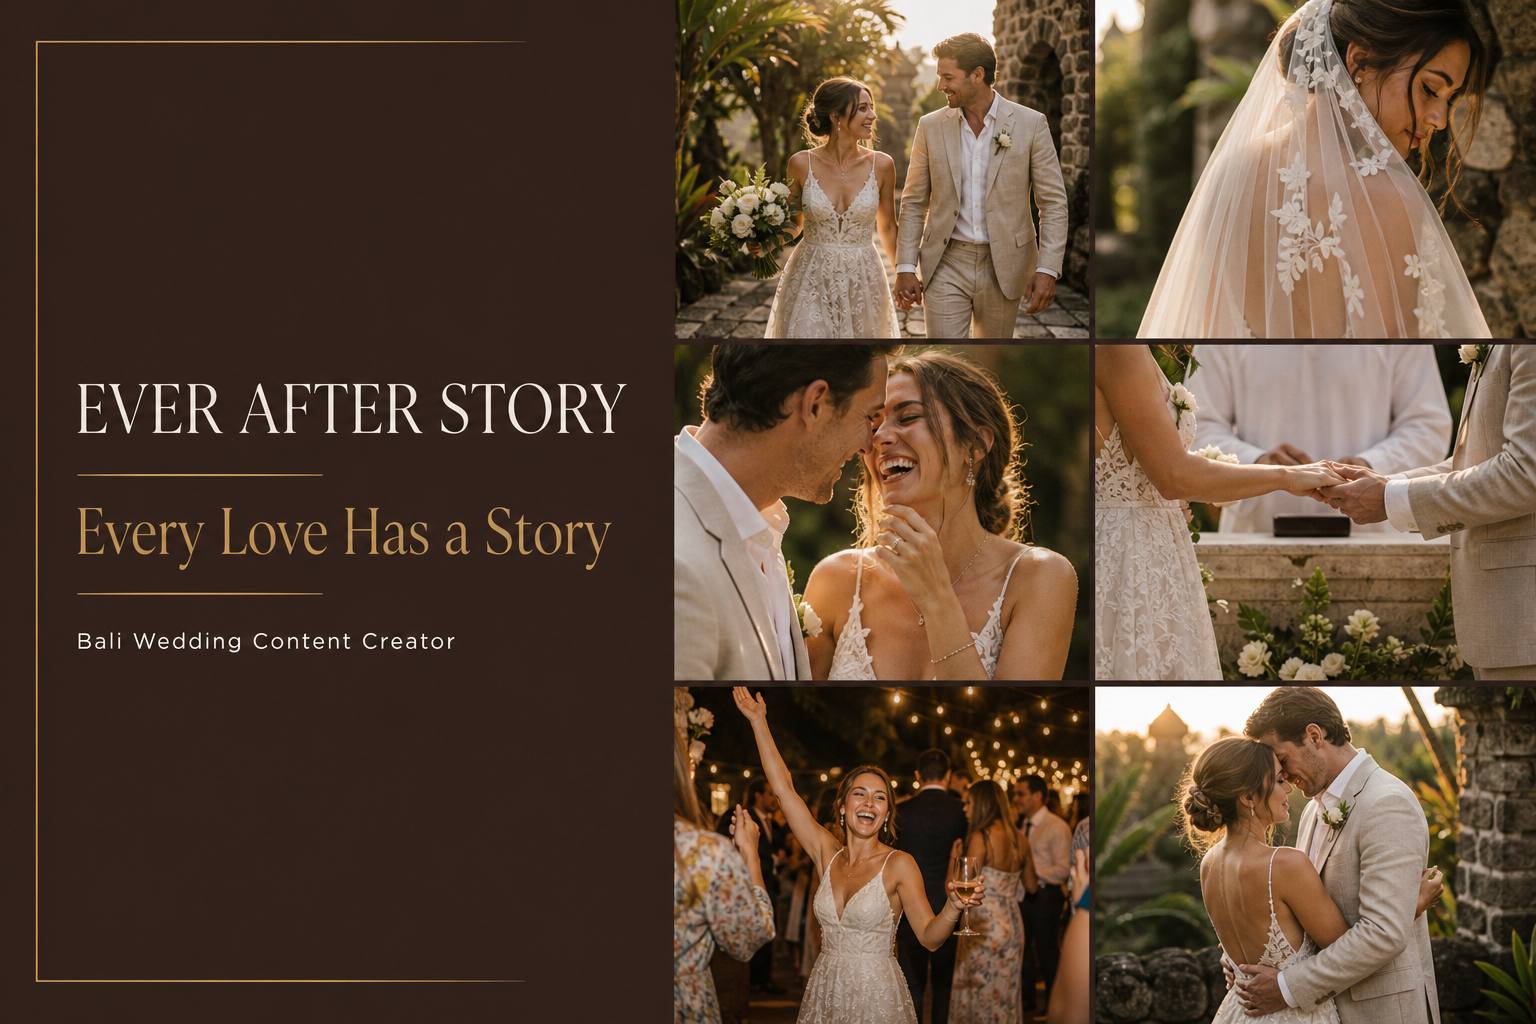
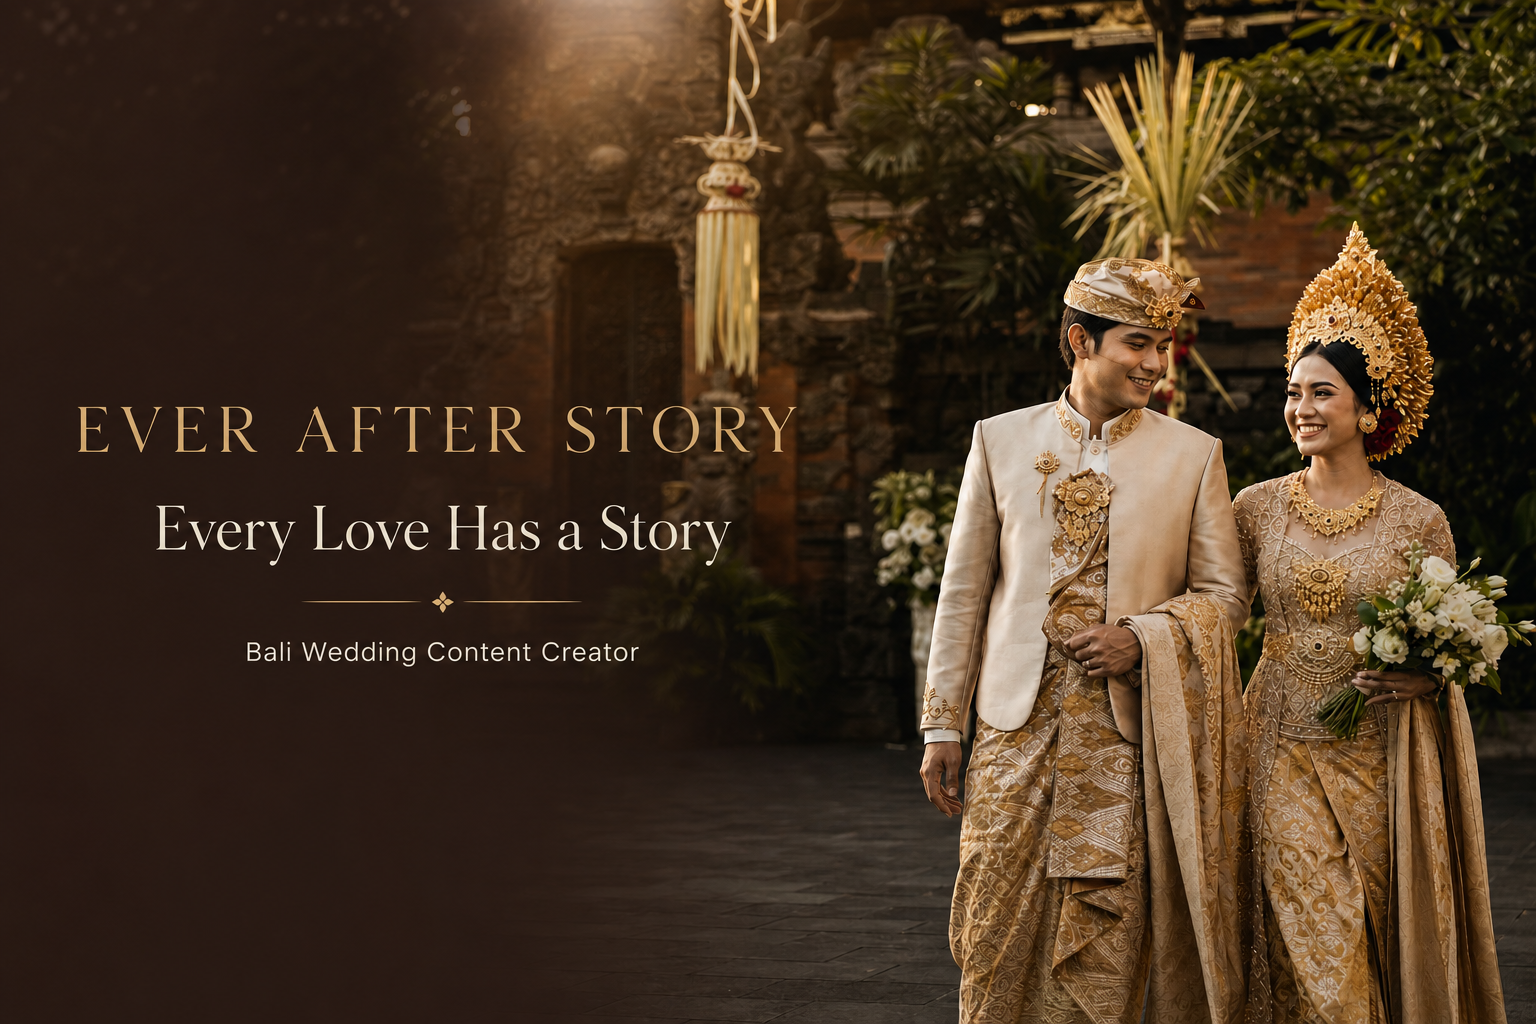
Use Bali wedding imagery from company profile

diff --git a/app/globals.css b/app/globals.css
@@ -72,8 +72,8 @@ img { max-width: 100%; }
 /* Hero */
 .hero { position: relative; min-height: max(44rem, 100svh); display: flex; align-items: flex-end; overflow: hidden; background: var(--color-primary-hover); color: white; }
 .hero-media { position: absolute; inset: 0; overflow: hidden; }
-.hero-image { object-fit: cover; object-position: 78% center; transform: scale(1.55); transform-origin: 100% 50%; }
-.hero-media::after { content: ""; position: absolute; inset: 0; background: linear-gradient(90deg, rgba(31,18,15,1) 0%, rgba(31,18,15,.97) 36%, rgba(31,18,15,.3) 72%, rgba(31,18,15,.4) 100%); }
+.hero-image { object-fit: cover; object-position: 72% center; transform: scale(1.015); transform-origin: 50% 50%; }
+.hero-media::after { content: ""; position: absolute; inset: 0; background: linear-gradient(90deg, rgba(31,18,15,.94) 0%, rgba(31,18,15,.76) 38%, rgba(31,18,15,.24) 72%, rgba(31,18,15,.34) 100%); }
 .hero-content { position: relative; z-index: 1; padding-top: 9rem; padding-bottom: clamp(4rem, 8vw, 7rem); }
 .hero-copy { max-width: 48rem; }
 .hero .eyebrow { color: #eadbd4; }
@@ -96,13 +96,7 @@ img { max-width: 100%; }
 .portfolio-item { grid-column: span 4; }
 .portfolio-item:nth-child(2), .portfolio-item:nth-child(5) { margin-top: clamp(2rem, 6vw, 5rem); }
 .portfolio-media { position: relative; aspect-ratio: 4 / 5; overflow: hidden; background: var(--color-background-alt); }
-.portfolio-image { width: auto !important; max-width: none; height: 300% !important; object-fit: fill; transition: filter .35s ease; }
-.portfolio-item:nth-child(1) .portfolio-image { top: 0 !important; left: -276% !important; }
-.portfolio-item:nth-child(2) .portfolio-image { top: 0 !important; left: -433% !important; }
-.portfolio-item:nth-child(3) .portfolio-image { top: -100% !important; left: -276% !important; }
-.portfolio-item:nth-child(4) .portfolio-image { top: -100% !important; left: -433% !important; }
-.portfolio-item:nth-child(5) .portfolio-image { top: -200% !important; left: -276% !important; }
-.portfolio-item:nth-child(6) .portfolio-image { top: -200% !important; left: -433% !important; }
+.portfolio-image { object-fit: cover; transition: transform .5s ease; }
 .portfolio-item:hover .portfolio-image { transform: scale(1.03); }
 .portfolio-meta { padding-top: 1rem; display: grid; grid-template-columns: 1fr auto; gap: .5rem 1rem; align-items: baseline; }
 .portfolio-title { margin: 0; font-family: var(--font-display), Georgia, serif; font-size: 1.7rem; font-weight: 600; line-height: 1; }
@@ -216,7 +210,7 @@ img { max-width: 100%; }
   .display { font-size: clamp(3.2rem, 17vw, 5rem); }
   .section-title { font-size: clamp(2.75rem, 13vw, 4rem); }
   .hero { min-height: 43rem; }
-  .hero-image { object-position: 76% center; transform: scale(1.75); }
+  .hero-image { object-position: 68% center; transform: scale(1.04); }
   .hero-media::after { background: linear-gradient(90deg, rgba(31,18,15,.92) 0%, rgba(31,18,15,.7) 65%, rgba(31,18,15,.42) 100%); }
   .hero-note { display: none; }
   .hero-actions { display: grid; width: min(100%, 23rem); }

diff --git a/content/portfolio.ts b/content/portfolio.ts
@@ -3,13 +3,15 @@ export interface PortfolioStory {
   location: string;
   category: string;
   alt: string;
+  image: string;
+  objectPosition: string;
 }
 
 export const portfolioStories: PortfolioStory[] = [
-  { couple: "Maya & Julian", location: "Uluwatu, Bali", category: "Clifftop Wedding", alt: "Newlyweds sharing a quiet moment at their Bali celebration" },
-  { couple: "Sofia & Liam", location: "Canggu, Bali", category: "Villa Wedding", alt: "Romantic villa wedding moment in Bali" },
-  { couple: "Ayu & Theo", location: "Sanur, Bali", category: "Intimate Wedding", alt: "Intimate wedding celebration surrounded by tropical greenery" },
-  { couple: "Elena & Marco", location: "Ubud, Bali", category: "Garden Wedding", alt: "Couple celebrating in a lush Bali garden" },
-  { couple: "Amelia & Noah", location: "Nusa Dua, Bali", category: "Destination Wedding", alt: "Destination wedding couple enjoying Bali golden hour" },
-  { couple: "Claire & Ben", location: "Seminyak, Bali", category: "Behind the Scenes", alt: "Candid behind-the-scenes wedding moment" },
+  { couple: "Maya & Julian", location: "Uluwatu, Bali", category: "Clifftop Wedding", alt: "Balinese wedding couple walking together in a temple courtyard", image: "/images/bali-wedding-couple-wide.jpg", objectPosition: "75% center" },
+  { couple: "Sofia & Liam", location: "Canggu, Bali", category: "Villa Wedding", alt: "Bride in traditional Balinese wedding attire adjusting her earring", image: "/images/bali-wedding-bride-portrait.jpg", objectPosition: "50% 38%" },
+  { couple: "Ayu & Theo", location: "Sanur, Bali", category: "Intimate Wedding", alt: "Balinese wedding couple sharing a warm look at golden hour", image: "/images/bali-wedding-couple-portrait.jpg", objectPosition: "56% 42%" },
+  { couple: "Elena & Marco", location: "Ubud, Bali", category: "Garden Wedding", alt: "Traditional Balinese bride portrait framed by carved temple details", image: "/images/bali-wedding-bride-portrait.jpg", objectPosition: "50% 55%" },
+  { couple: "Amelia & Noah", location: "Nusa Dua, Bali", category: "Destination Wedding", alt: "Newlyweds in Balinese attire standing in a tropical courtyard", image: "/images/bali-wedding-couple-wide.jpg", objectPosition: "82% center" },
+  { couple: "Claire & Ben", location: "Seminyak, Bali", category: "Behind the Scenes", alt: "Candid close portrait of a Balinese wedding couple", image: "/images/bali-wedding-couple-portrait.jpg", objectPosition: "62% 58%" },
 ];

diff --git a/components/PortfolioSection.tsx b/components/PortfolioSection.tsx
@@ -13,7 +13,7 @@ export function PortfolioSection() {
         <div className="portfolio-grid">
           {portfolioStories.map((story) => (
             <article className="portfolio-item" key={story.couple}>
-              <div className="portfolio-media"><Image className="portfolio-image" src="/images/wedding-storyboard.png" alt={story.alt} fill unoptimized sizes="(max-width: 680px) 100vw, (max-width: 960px) 50vw, 33vw" /></div>
+              <div className="portfolio-media"><Image className="portfolio-image" src={story.image} alt={story.alt} fill unoptimized sizes="(max-width: 680px) 100vw, (max-width: 960px) 50vw, 33vw" style={{ objectPosition: story.objectPosition }} /></div>
               <div className="portfolio-meta"><h3 className="portfolio-title">{story.couple}</h3><p className="portfolio-location">{story.location}</p><p className="portfolio-category">{story.category}</p></div>
             </article>
           ))}

diff --git a/components/HeroSection.tsx b/components/HeroSection.tsx
@@ -4,7 +4,7 @@ export function HeroSection() {
   return (
     <section className="hero" id="home" aria-labelledby="hero-title">
       <div className="hero-media" aria-hidden="true">
-        <Image className="hero-image" src="/images/wedding-storyboard.png" alt="" fill priority unoptimized sizes="100vw" />
+        <Image className="hero-image" src="/images/bali-wedding-couple-wide.jpg" alt="" fill priority unoptimized sizes="100vw" />
       </div>
       <div className="container hero-content">
         <div className="hero-copy">

diff --git a/public/images/README.md b/public/images/README.md
@@ -1,10 +1,10 @@
-# Wedding image placeholders
+# Wedding image assets
 
-Replace `wedding-storyboard.png` with licensed, client-approved imagery before launch. Keep the filename to avoid code changes.
+The current Bali wedding photographs were extracted at their original embedded resolution from `output/pdf/ever-after-story-company-profile-bali-ai.pdf`.
 
-- Hero: landscape image, ideally 1920 × 1080 (16:9), with the couple focused toward the right.
-- Mobile hero: the current CSS uses the same image with a 4:5 crop and a right-side focal point.
-- Portfolio: six portrait crops at 1200 × 1500 (4:5) are recommended for a final production pass. Update `content/portfolio.ts` and each image path when separate images are available.
-- Social preview: `public/og.png`, 1536 × 1024. Replace it whenever the brand photography or main message changes.
+- `bali-wedding-couple-wide.jpg` - 2916 × 2048 landscape; used for the hero, portfolio crops, and social preview.
+- `bali-wedding-bride-portrait.jpg` - 1365 × 2048 portrait; used for bridal-detail portfolio crops.
+- `bali-wedding-couple-portrait.jpg` - 1365 × 2048 portrait; used for close couple portfolio crops.
+- Social preview: `public/og.png`, a 1536 × 1024 branded card generated from the landscape reference image.
 
-The bundled storyboard is an AI-created placeholder and must not be presented as a real Ever After Story client wedding.
+Portfolio focal points are configured in `content/portfolio.ts`. These are AI-created reference images and should not be presented as photographs of real Ever After Story clients.

diff --git a/README.md b/README.md
@@ -36,7 +36,7 @@ The inquiry form has no backend. It validates the required fields in the browser
 - Brand and links: `content/site-config.ts`
 - Image replacement notes: `public/images/README.md`
 
-Replace the AI-generated wedding storyboard and all placeholder testimonials with approved client material before the public launch.
+The current wedding imagery is the AI-generated Bali reference set extracted from the company-profile PDF. Replace it and all placeholder testimonials with approved client material before presenting the portfolio as real client work.
 
 ## Quality checks
 
